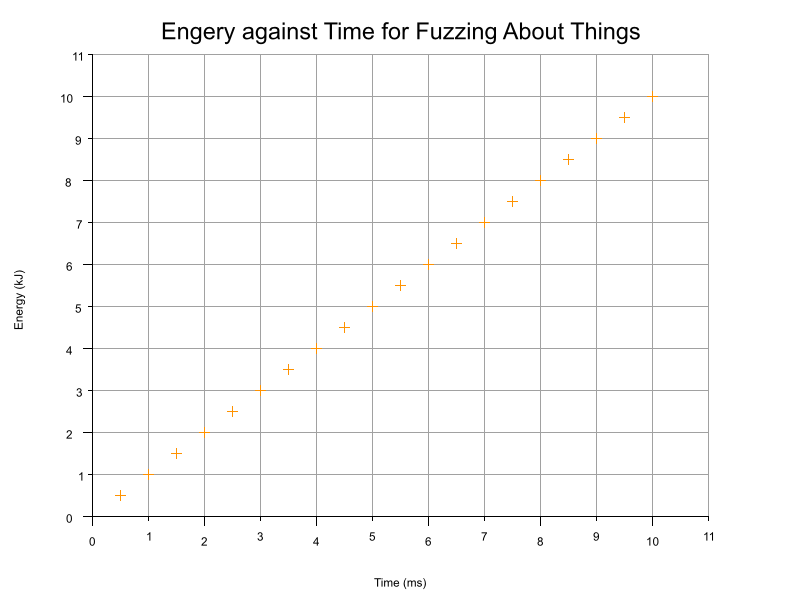
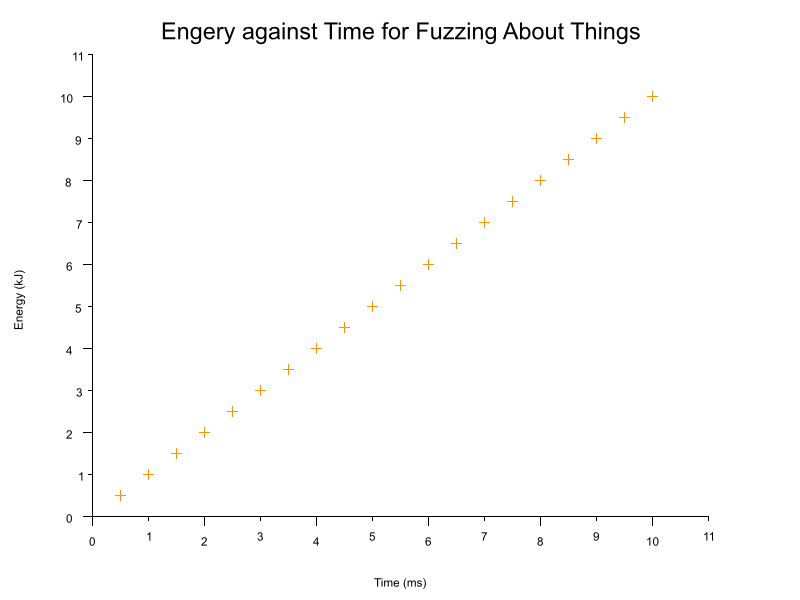
feat: added error bar plotting

diff --git a/src/canvas/plot.rs b/src/canvas/plot.rs
@@ -55,7 +55,9 @@ impl DataSymbol {
 			DataSymbol::Circle => todo!(),
 			DataSymbol::Triangle => todo!(),
 			DataSymbol::Square => todo!(),
-			DataSymbol::Point => todo!(),
+			DataSymbol::Point => {
+				// it's ust the original pixel
+			},
 		}
 		return pixel_coords;
 	}
@@ -117,6 +119,114 @@ impl DataPoint {
 					self.x, self.y, x_pixel_corrected_pos, y_pixel_corrected_pos
 				),
 			}
+		}
+		match self.ux {
+			Some(value) => {
+				trace!("Drawing x uncertainty with size {}", value);
+				// furthest pixel to the right
+				let upper_limit_pixel = axes_origin.0 + ((self.x + value) * x_scale_factor) as u32;
+				// furthest pixel to the left
+				let lower_limit_pixel = axes_origin.0 + ((self.x - value) * x_scale_factor) as u32;
+				// draw line from left to right
+				for px in lower_limit_pixel..=upper_limit_pixel {
+					match canvas.get_pixel_mut_checked(px, y_pixel_corrected_pos) {
+						Some(pixel) => *pixel = Rgba(rgba),
+						None => warn!(
+							"Cannot plot error bar point ({}, {}) with pixel position ({}, {})",
+							self.x, self.y, px, y_pixel_corrected_pos
+						),
+					}
+				}
+				let error_bar_length = (upper_limit_pixel - lower_limit_pixel) / 4;
+				// draws 'wings' either side of the limits
+				for py in 0..=error_bar_length {
+					// down
+					match canvas.get_pixel_mut_checked(upper_limit_pixel, y_pixel_corrected_pos + py) {
+						Some(pixel) => *pixel = Rgba(rgba),
+						None => warn!(
+							"Cannot plot error bar wing for point ({}, {}) with pixel position ({}, {})",
+							self.x, self.y, upper_limit_pixel, y_pixel_corrected_pos + py
+						),
+					}
+					match canvas.get_pixel_mut_checked(lower_limit_pixel, y_pixel_corrected_pos + py) {
+						Some(pixel) => *pixel = Rgba(rgba),
+						None => warn!(
+							"Cannot plot error bar wing for point ({}, {}) with pixel position ({}, {})",
+							self.x, self.y, lower_limit_pixel, y_pixel_corrected_pos - py
+						),
+					}
+					// up
+					match canvas.get_pixel_mut_checked(upper_limit_pixel, y_pixel_corrected_pos - py) {
+						Some(pixel) => *pixel = Rgba(rgba),
+						None => warn!(
+							"Cannot plot error bar wing for point ({}, {}) with pixel position ({}, {})",
+							self.x, self.y, upper_limit_pixel, y_pixel_corrected_pos + py
+						),
+					}
+					match canvas.get_pixel_mut_checked(lower_limit_pixel, y_pixel_corrected_pos - py) {
+						Some(pixel) => *pixel = Rgba(rgba),
+						None => warn!(
+							"Cannot plot error bar wing for point ({}, {}) with pixel position ({}, {})",
+							self.x, self.y, lower_limit_pixel, y_pixel_corrected_pos - py
+						),
+					}
+				}
+			},
+			None => {},
+		}
+		match self.uy {
+			Some(value) => {
+				trace!("Drawing y uncertainty with size {}", value);
+				// furthest pixel above
+				let upper_limit_pixel = axes_origin.1 - ((self.y - value) * y_scale_factor) as u32;
+				// furthest pixel below
+				let lower_limit_pixel = axes_origin.1 - ((self.y + value) * y_scale_factor) as u32;
+				// draw line from above to below
+				for py in lower_limit_pixel..=upper_limit_pixel {
+					match canvas.get_pixel_mut_checked(x_pixel_corrected_pos, py) {
+						Some(pixel) => *pixel = Rgba(rgba),
+						None => warn!(
+							"Cannot plot error bar point ({}, {}) with pixel position ({}, {})",
+							self.x, self.y, x_pixel_corrected_pos, py
+						),
+					}
+				}
+				let error_bar_length = (upper_limit_pixel - lower_limit_pixel) / 4;
+				// draws 'wings' either side of the limits
+				for px in 0..=error_bar_length {
+					// to the left
+					match canvas.get_pixel_mut_checked(x_pixel_corrected_pos - px, upper_limit_pixel) {
+						Some(pixel) => *pixel = Rgba(rgba),
+						None => warn!(
+							"Cannot plot error bar wing for point ({}, {}) with pixel position ({}, {})",
+							self.x, self.y, x_pixel_corrected_pos - px, upper_limit_pixel
+						),
+					}
+					match canvas.get_pixel_mut_checked(x_pixel_corrected_pos - px, lower_limit_pixel) {
+						Some(pixel) => *pixel = Rgba(rgba),
+						None => warn!(
+							"Cannot plot error bar wing for point ({}, {}) with pixel position ({}, {})",
+							self.x, self.y, x_pixel_corrected_pos - px, lower_limit_pixel
+						),
+					}
+					// to the right
+					match canvas.get_pixel_mut_checked(x_pixel_corrected_pos + px, upper_limit_pixel) {
+						Some(pixel) => *pixel = Rgba(rgba),
+						None => warn!(
+							"Cannot plot error bar wing for point ({}, {}) with pixel position ({}, {})",
+							self.x, self.y, x_pixel_corrected_pos + px, upper_limit_pixel
+						),
+					}
+					match canvas.get_pixel_mut_checked(x_pixel_corrected_pos + px, lower_limit_pixel) {
+						Some(pixel) => *pixel = Rgba(rgba),
+						None => warn!(
+							"Cannot plot error bar wing for point ({}, {}) with pixel position ({}, {})",
+							self.x, self.y, x_pixel_corrected_pos + px, lower_limit_pixel
+						),
+					}
+				}
+			},
+			None => {},
 		}
 	}
 }

diff --git a/src/scatter.rs b/src/scatter.rs
@@ -91,7 +91,8 @@ pub fn scatter_builder(path: &str, output: &str, csv_delimiter: &str) {
 	let vertical_pixels_used_from_top =
 		build_title(&mut canvas, &scatter.title, font_sizes.title_font_size);
 	// legend_scale_factor decides how much horizontal space should be reserved for a legend
-	let legend_scale_factor = if scatter.has_legend { 2 } else { 1 };
+	//TODO: there must be a nicer way reserve some legend space, for true 2 is way too big
+	let legend_scale_factor = if scatter.has_legend { 1 } else { 1 };
 	// With the text drawn we can calculate the rectangular space for the axes, represrnted as two tuples
 	// pinpointing the bottom left origin of the graph and the top right corner.
 	// Pixel position of axes origin
@@ -156,7 +157,7 @@ pub fn scatter_builder(path: &str, output: &str, csv_delimiter: &str) {
 	// optionall build the legend
 	if scatter.has_legend {
 		let legend_fields = get_legend_fields(&scatter.data_sets);
-		let legend_origin: (u32, u32) = axis_max;
+		let legend_origin: (u32, u32) = (axis_max.0, axis_max.1 * 2);
 		build_legend(
 			&mut canvas,
 			legend_origin,
@@ -357,6 +358,7 @@ fn build_data_points(
 	y_scale_factor: f32,
 	origin_offset: (u32, u32),
 ) {
+	debug!("Building data points...");
 	// iterate over each set
 	for set in data_set.iter() {
 		// read the csv each set corresponds to

diff --git a/src/canvas/legend.rs b/src/canvas/legend.rs
@@ -32,7 +32,7 @@ pub fn build_legend(
 		let field = &fields[i];
 		trace!("Legend field {:?}", field);
 		let glyphs = create_glyphs(font_size, &field.name, &font);
-		// used to write legend fields on new rows
+		// height is used to write legend fields on new rows
 		let height = {
 			let min_y = glyphs
 				.first()
@@ -42,7 +42,7 @@ pub fn build_legend(
 				.last()
 				.map(|g| g.pixel_bounding_box().unwrap().max.y)
 				.unwrap();
-			(max_y - min_y) as u32
+			(max_y - min_y) as u32 * 2
 		};
 		let symbol_position = (
 			origin.0 + ((field.symbol_radius + 1) * (field.symbol_thickness + 1)),

diff --git a/README.md b/README.md
@@ -27,13 +27,35 @@ E.g
 plotit -g scatter -c examples/scatter/scatter.ron -o examples/scatter
 ```
 
-Note that if your canvas is too small then your title and axis label test will become blurry.
+Note that if your canvas is too small then your title and axis labels may become blurry.
 
 ## Examples
 
-Currently commented out, as I use clippy more I suspect to customise what it does.
+### [Simple Scatter](https://github.com/BlondeBurrito/plotit/tree/main/examples/scatter)
 
-<img src="docs/abstract_example.png" alt="abs" width="370"/>
+<img src="examples/scatter/engery_against_time_for_fuzzing_about_things.png" alt="s" width="400"/>
+
+### [Image Size Scales Elements Dynamically](https://github.com/BlondeBurrito/plotit/tree/main/examples/scatter_large)
+
+Based on the dimensions of your image (`canvas_size`) the text and axes positions are automatically calculated. You can also toggle a light grey background grid drawn the from axes scales.
+
+<img src="examples/scatter_large/a_large_graph_for_testing_positions_of_graph_elements_and_stuff.png" alt="s" width="800"/>
+
+### [Scatter Multidata](https://github.com/BlondeBurrito/plotit/tree/main/examples/scatter_multidata_one_csv)
+
+From single or multiple `csv` files you can plot several data sets onto a single graph. Each data set can be configured to plot with a different colour and/or symbol. The legend can be toggled on and off. The size and thickness of the symbols are configurable on a per data set basis.
+
+<img src="examples/scatter_multidata_one_csv/oh_wow__multiple_data_sets.png" alt="s" width="800"/>
+
+### [Scatter Error Bars](https://github.com/BlondeBurrito/plotit/tree/main/examples/scatter_error_bars)
+
+You can also indicate uncertainty with the use of error bars which can be specified for either axes.
+
+<img src="examples/scatter_error_bars/we_have_some_certainty_in_y.png" alt="s" width="800"/>
+<img src="examples/scatter_error_bars/we_have_some_certainty_in_x_and_y.png" alt="s" width="800"/>
+
+
+## Contributing
 
 ## LICENSE
 

diff --git a/examples/scatter_error_bars/README.md b/examples/scatter_error_bars/README.md
@@ -1,0 +1,7 @@
+# Scatter
+
+Plots simple scatter chart. During development run the following to tr it out:
+
+```bash
+./target/release/plotit.exe -g scatter -c examples/scatter/scatter.ron -o examples/scatter
+```
